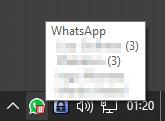
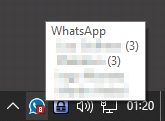
Updated screenshots/README

Changed region(s): [[0.1515, 0.7934, 0.2727, 0.9421]]

diff --git a/README.md b/README.md
@@ -17,8 +17,7 @@ WhatsMissing is a launcher that provides some extensions to the official Windows
 - WhatsApp can be minimized to the notification area using the close button/escape key
 - Notification icon indicates whether new messages were received
 - WhatsApp can be configured to be always on top
-- Suppression of outbound online/typing notifications
-- Suppression of consecutive notification sounds
+- Suppression of consecutive notifications
 - Easy installation/uninstallation without modifications to WhatsApp's original files
 - Built using Lazarus :fire:
 
